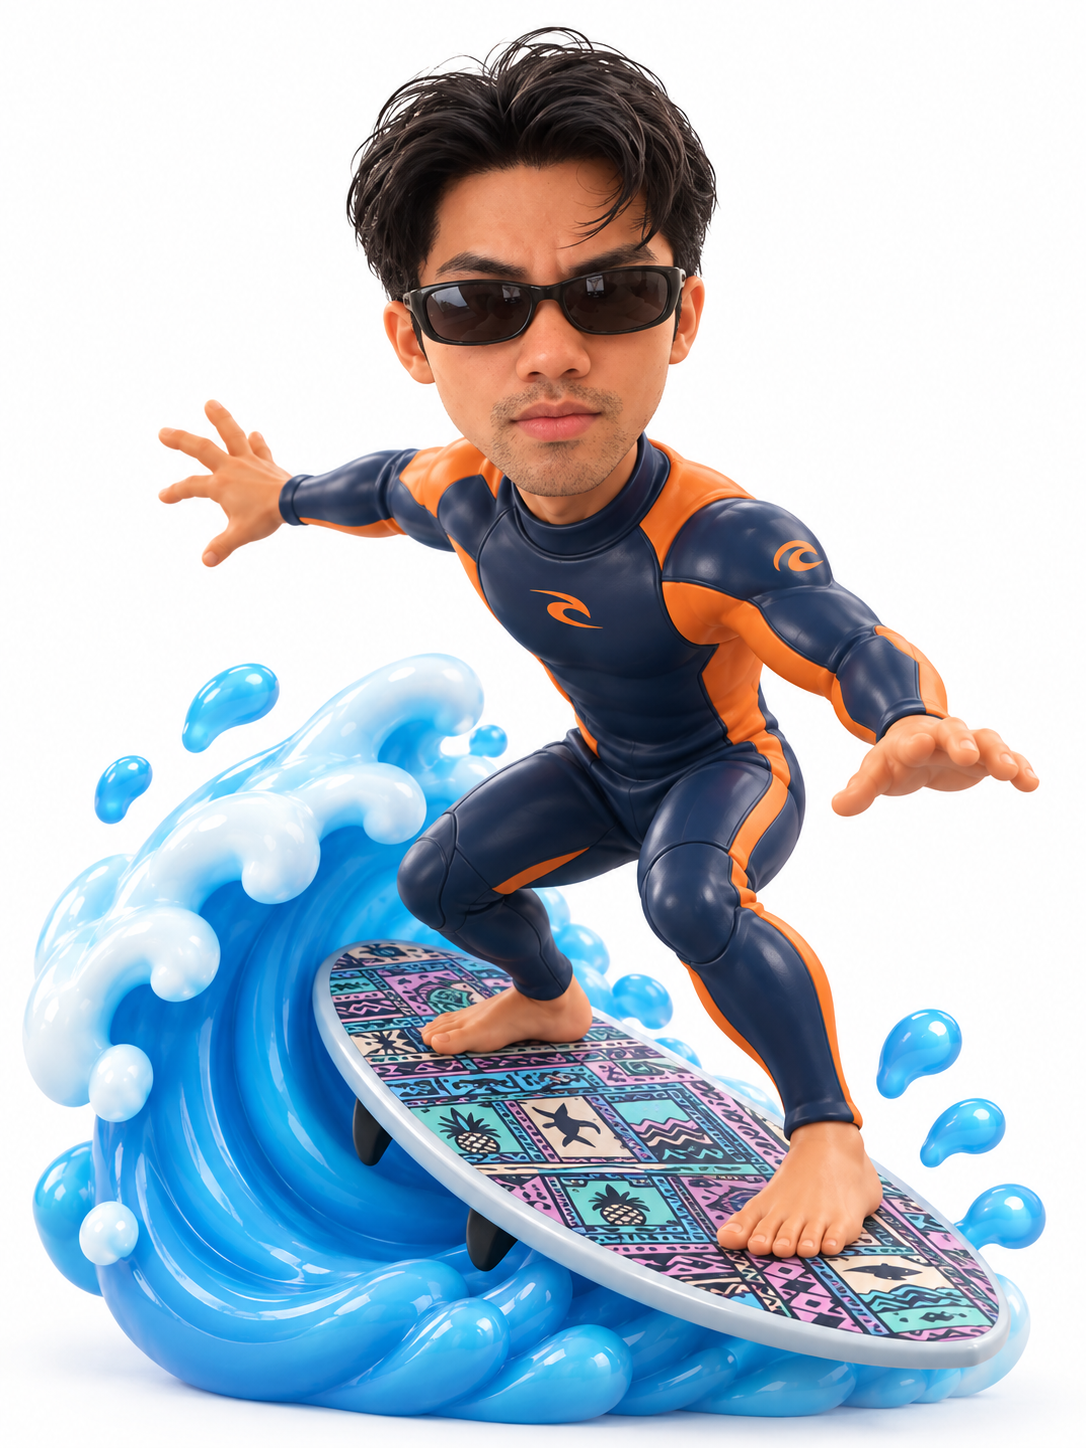
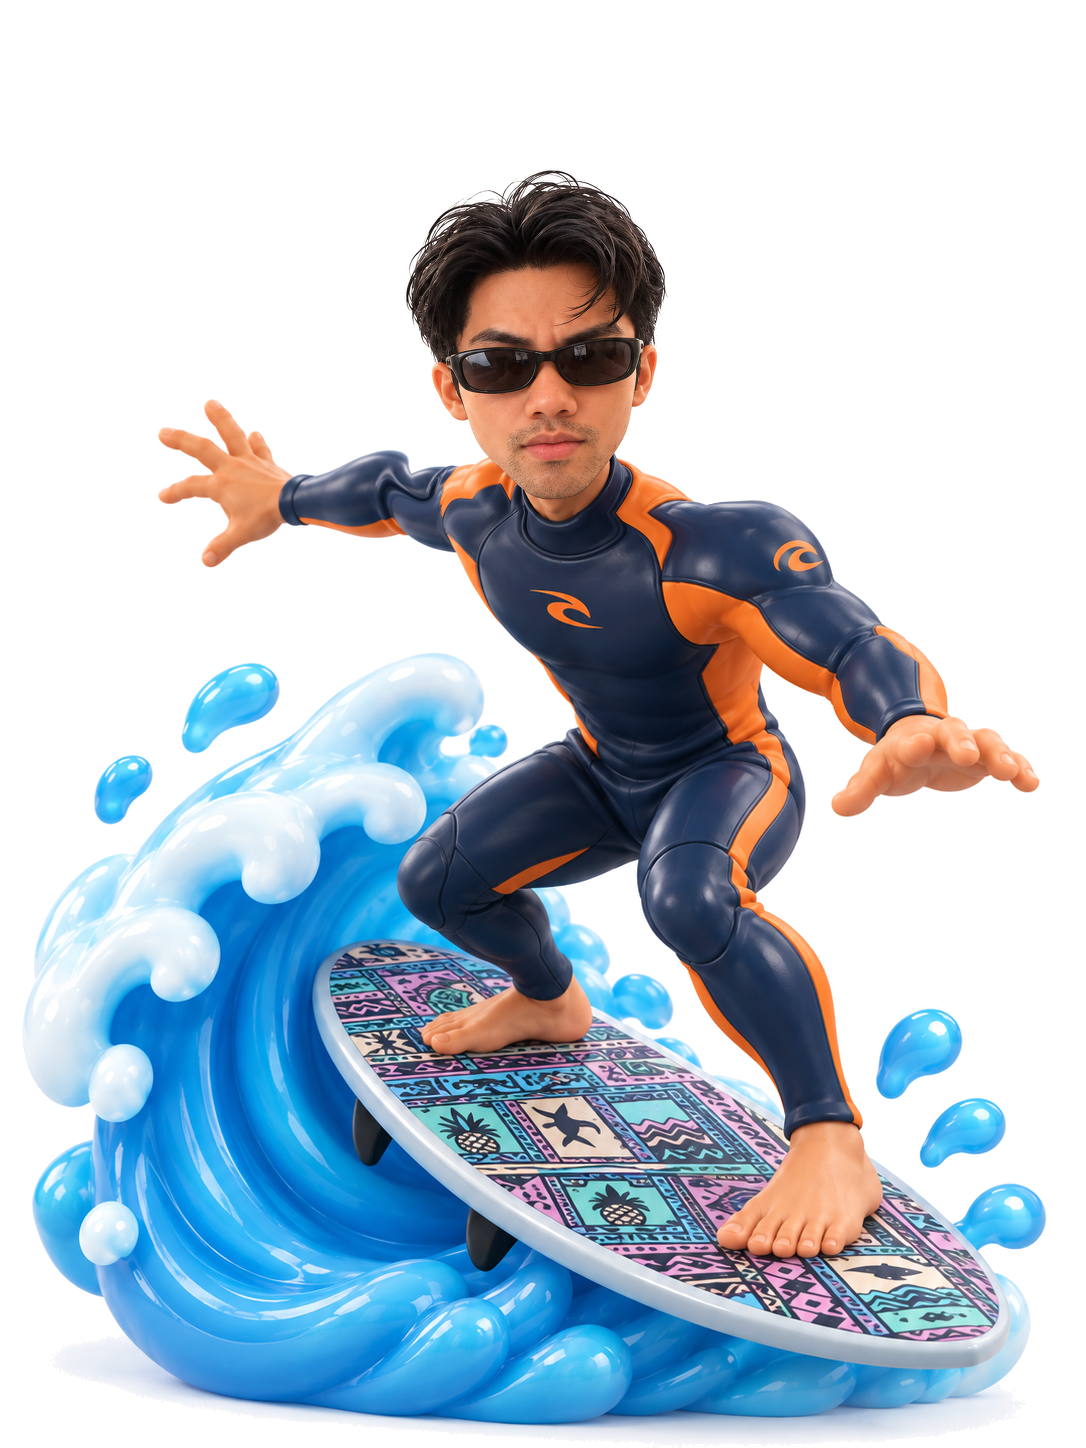
add movie

Changed region(s): [[0.3039, 0.0, 0.6989, 0.3729]]

diff --git a/tools/mini-me/headscale.py b/tools/mini-me/headscale.py
@@ -1,0 +1,95 @@
+"""Rimette in proporzione testa e corpo del mini-me e ripristina lo sfondo trasparente.
+
+Vale per il render del surfista con muta blu/arancio e occhiali (quello introdotto dal
+commit "change photo"), non per il render precedente trattato da edit.py.
+
+La testa viene rimpicciolita con una deformazione morbida ancorata al punto in cui il mento
+appoggia sul collo della muta: dentro la maschera della testa la scala e' piena, fuori e'
+identita', e la fascia di transizione cade sullo sfondo bianco e sulle spalle, dove lo
+stiramento non si vede. Non ci sono buchi da riempire perche' il campo e' continuo.
+
+    python3 tools/mini-me/headscale.py assets/media/mini-me.png assets/media/mini-me.png
+"""
+import cv2, numpy as np, argparse
+from scipy import ndimage
+
+# silhouette della testa misurata sul render (pixel dell'immagine 1086x1448)
+HEAD_POLY=[(534,16),(580,18),(628,40),(668,68),(700,104),(720,148),(730,196),(724,244),(714,292),
+           (702,338),(688,382),(672,420),(660,452),(642,478),(616,500),(586,512),
+           (505,512),(478,500),(456,478),(440,452),(424,420),(408,382),(392,338),(378,292),
+           (366,244),(352,196),(340,148),(360,104),(392,68),(432,40),(480,18)]
+PIVOT=(545.,505.)          # mento sul collo della muta: resta fermo
+FACE_BOX=(0,520,330,745)   # y0,y1,x0,x1 in cui cercare pelle e capelli
+
+def head_mask(img):
+    H,W=img.shape[:2]
+    hsv=cv2.cvtColor(img.astype(np.uint8),cv2.COLOR_BGR2HSV)
+    Hh,S,V=hsv[...,0].astype(int),hsv[...,1].astype(int),hsv[...,2].astype(int)
+    poly=np.zeros((H,W),np.uint8); cv2.fillPoly(poly,[np.array(HEAD_POLY,np.int32)],255)
+    y0,y1,x0,x1=FACE_BOX
+    box=np.zeros((H,W),bool); box[y0:y1,x0:x1]=True
+    cand=(((Hh>=3)&(Hh<=25)&(S>=45)&(V>=95))|(V<90))&box     # pelle, capelli, occhiali
+    n,lab,_,_=cv2.connectedComponentsWithStats(cand.astype(np.uint8))
+    m=ndimage.binary_fill_holes((poly>0)|(lab==lab[300,532]))
+    return cv2.morphologyEx(m.astype(np.uint8),cv2.MORPH_CLOSE,
+                            cv2.getStructuringElement(cv2.MORPH_ELLIPSE,(11,11)))>0
+
+def scale_head(img,s,sigma=10.):
+    H,W=img.shape[:2]; ys,xs=np.mgrid[0:H,0:W].astype(np.float32)
+    w=np.clip(cv2.GaussianBlur(head_mask(img).astype(np.float32),(0,0),sigma)*1.30,0,1)
+    f=1.+(s-1.)*w                                            # 1 sul corpo, s sulla testa
+    px,py=PIVOT
+    mx=(px+(xs-px)/f).astype(np.float32); my=(py+(ys-py)/f).astype(np.float32)
+    return np.clip(cv2.remap(img,mx,my,cv2.INTER_LANCZOS4,borderMode=cv2.BORDER_REPLICATE),0,255)
+
+def cut_white(img,d0=6.,d1=32.):
+    """Sfondo bianco -> alpha, con i bordi smontati dal bianco per non lasciare aloni.
+
+    Lo sfondo del render e' perfettamente piatto (escursione locale <=2), mentre la schiuma
+    dell'onda e il bianco della tavola sono superfici illuminate (escursione ~15). La planarita'
+    distingue quindi le sacche di sfondo chiuse dentro la figura, per esempio i vuoti fra i
+    ciuffi di capelli o quello fra le gambe, che il riempimento dai bordi non raggiunge.
+    """
+    H,W=img.shape[:2]
+    hsv=cv2.cvtColor(img.astype(np.uint8),cv2.COLOR_BGR2HSV)
+    S,V=hsv[...,1].astype(int),hsv[...,2].astype(int)
+    d=np.maximum(S,255-V).astype(np.float32)
+    near=(d<=8).astype(np.uint8)
+    ff=near.copy(); mask=np.zeros((H+2,W+2),np.uint8)
+    for seed in ((0,0),(W-1,0),(0,H-1),(W-1,H-1)):
+        if ff[seed[1],seed[0]]: cv2.floodFill(ff,mask,seed,2)
+    ext=(ff==2)
+    g=cv2.cvtColor(img.astype(np.uint8),cv2.COLOR_BGR2GRAY); k3=np.ones((3,3),np.uint8)
+    flat=(cv2.dilate(g,k3).astype(int)-cv2.erode(g,k3).astype(int))<=2
+    pockets=ndimage.binary_propagation((d<=4)&flat&(~ext),mask=near>0)
+    # la carta e' neutra (saturazione media ~0.1), i bianchi dell'onda tirano al blu (~2.4):
+    # tengo solo le sacche neutre, cosi' la schiuma e il bianco della tavola restano pieni
+    bmr=(img[...,0]-img[...,2]).astype(np.float32)
+    n,lab,st,_=cv2.connectedComponentsWithStats(pockets.astype(np.uint8))
+    keep=np.zeros_like(pockets)
+    for i in range(1,n):
+        if st[i,cv2.CC_STAT_AREA]<20: continue
+        c=lab==i
+        if S[c].mean()<=1.2 and abs(float(bmr[c].mean()))<=1.0: keep|=c
+    ext=ext|keep
+    zone=cv2.dilate(ext.astype(np.uint8),np.ones((9,9),np.uint8))>0
+    # lo sfondo del render ha d<=2, la figura d>=110: la rampa cade tutta sul bordo sfumato
+    a=np.where(zone,np.clip((d-d0)/(d1-d0),0,1),1.).astype(np.float32)
+    a3=a[...,None]
+    col=np.where(a3>0.02,(img-255.*(1.-a3))/np.maximum(a3,0.02),img)
+    return np.dstack([np.clip(col,0,255),a*255.]).astype(np.uint8)
+
+if __name__=="__main__":
+    ap=argparse.ArgumentParser()
+    ap.add_argument("src"); ap.add_argument("out")
+    ap.add_argument("--scale",type=float,default=0.70,help="fattore di riduzione della testa")
+    ap.add_argument("--keep-white",action="store_true",help="non ritagliare lo sfondo bianco")
+    a=ap.parse_args()
+    im=cv2.imread(a.src,cv2.IMREAD_UNCHANGED)
+    if im.shape[2]==4:
+        al=im[...,3:4]/255.; im=im[...,:3]*al+255*(1-al)
+    im=im[...,:3].astype(np.float32)
+    r=scale_head(im,a.scale)
+    r=r.astype(np.uint8) if a.keep_white else cut_white(r)
+    cv2.imwrite(a.out,r,[cv2.IMWRITE_PNG_COMPRESSION,9])
+    print("scritto",a.out,r.shape)

diff --git a/tools/mini-me/README.md b/tools/mini-me/README.md
@@ -1,7 +1,37 @@
-# mini-me: pipeline di modifica
+# mini-me: script di ritocco
 
-Script Python (OpenCV/NumPy/SciPy) che ha prodotto l'attuale `assets/media/mini-me.png`
-a partire dal render originale del surfer:
+Due script, uno per render. Ogni volta che `assets/media/mini-me.png` viene rigenerato da zero
+le coordinate vanno rimisurate, perche' sono in pixel dell'immagine.
+
+## headscale.py - render attuale (surfista con occhiali, muta blu/arancio)
+
+Rimette in proporzione testa e corpo e ripristina lo sfondo trasparente:
+
+- la testa passava per 2,6 teste di figura, un rapporto da bobblehead; ridotta del 30% arriva
+  a 3,2 teste, in linea con la versione precedente del mini-me;
+- la riduzione e' una deformazione morbida ancorata al mento appoggiato sul collo della muta:
+  dentro la maschera della testa la scala e' piena, fuori e' identita', e la fascia di
+  transizione cade sullo sfondo e sulle spalle. Non restano buchi da riempire;
+- lo sfondo bianco torna trasparente. Le sacche chiuse dentro la figura (i vuoti fra i ciuffi
+  di capelli, quello fra le gambe) non si raggiungono dai bordi: si riconoscono perche' la carta
+  e' piatta e neutra, mentre schiuma dell'onda e bianco della tavola sono superfici illuminate
+  con escursione locale ~15 e dominante blu. I bordi sfumati vengono smontati dal bianco, cosi'
+  non resta alone su fondo scuro.
+
+```bash
+python3 -m venv .venv && .venv/bin/pip install numpy opencv-python-headless scipy
+git show cd4730d:assets/media/mini-me.png > /tmp/mini-me-src.png
+.venv/bin/python tools/mini-me/headscale.py /tmp/mini-me-src.png assets/media/mini-me.png --scale 0.70
+```
+
+`--scale` regola quanto rimpicciolire la testa (0,70 = attuale; 0,80 e' piu' conservativo).
+`--keep-white` salta il ritaglio dello sfondo. Le coordinate della testa sono `HEAD_POLY` e
+`PIVOT` in cima allo script.
+
+## edit.py - render precedente (ragazzo in costume, poi muta arancio e glacier)
+
+Ha prodotto la versione del mini-me in uso fino al commit "change photo", a partire dal
+render originale del surfer. Non si applica al render attuale, resta come storia:
 
 - tavola (modello 3D): la sezione trasversale e' un deck bombato chiuso da un rail a quarto di cerchio,
   piu' largo sul lato vicino e ridotto a una lama su quello lontano per la prospettiva. La stampa "tribal"

diff --git a/content/shaping/movies/foe/index.md b/content/shaping/movies/foe/index.md
@@ -1,0 +1,21 @@
+---
+title: Foe
+meta: Garth Davis
+gallery: movie
+rating: 8.5
+catchphrase: Plug back in.
+summary: "All’inizio ti senti così piena di vita ed è… eccitante, ma il tempo rende tutto prevedibile."
+---
+
+> *“All’inizio ti senti così piena di vita ed è… eccitante, ma il tempo rende tutto prevedibile.. è come se lui non mi vedesse più.. come si avesse sostituito con un’altra… ho perso quelle parti che definiscono chi sono o chi potrei essere… e temo che non le recuperò mai… non dovrei dirti certe cose”*
+> 
+
+Il tempo… Il tempo… possibile che il tempo faccia scomparire tutto? faccia scomparire la passione? Ma sopratutto rende normalizzato , rende **per scontato** una persona?
+
+Forse è per questo che alla fine una relazione che sia di amicizia, sia familiare o sia di amore finisca. Forse è per questo che rende la perdita più dolorosa… si ha tutto l’amore del mondo dove però è stato reso per scontato, dove però non si è più lottati per amore.
+
+L’amore alla fine non è soltanto attrazione: l’attrazione è l’epilogo del viaggio. L’amore è saper coltivare giorno dopo giorno il nostro orto, è, come possiamo vedere dal film, sfruttare la pioggia per far crescere le nostre piccole piante. Non a caso le terre che ci vengono mostrate attorno sono ormai spoglie; soltanto un albero è ancora in tatto: l’albero di chi giorno dopo giorno ha dato amore.
+
+Ma qual è il limite per andarsene da questo non amore, da questo nemico? Il limite probabilmente è quando non ci si sente più noi stessi, non si riconosce più la nostra identità: quando le passioni sono state distrutte dall’altro diventando da compagno a nemico. E lì c’è bisogno di un aereo da cui scappare, c’è bisogno del coraggio di andarsene via.
+
+E se invece si è l’altra persona? Ossia la persona che ha distrutto quell’amore. Beh… stare nella solitudine a rimuginare, a soffrire negli sbagli ed elaborarli; solo così si può non fare lo stesso errore nel momento in cui il destino ti darà un’altra possibilità di amare, un altro libro su cui l’epilogo è stato stilato ma dove i capitoli spettano a te scriverli.

diff --git a/content/shaping/movies/_index.md b/content/shaping/movies/_index.md
@@ -19,54 +19,12 @@ galleries:
       # `page:` takes everything from the folder of the same name: title, cover, rating and text
       - page: interstellar
       - page: forrest-gump
-      - title: The Social Network
-        meta: David Fincher
-      - title: La La Land
-        meta: Damien Chazelle
-      - title: Whiplash
-        meta: Damien Chazelle
-      - title: Parasite
-        meta: Bong Joon Ho
-      - title: Nightcrawler
-        meta: Dan Gilroy
-      - title: Prisoners
-        meta: Denis Villeneuve
-      - title: Beau Is Afraid
-        meta: Ari Aster
-      - title: Beautiful Boy
-        meta: Felix van Groeningen
-      - title: Joker
-        meta: Todd Phillips
-      - title: The Truman Show
-        meta: Peter Weir
-      - title: The Grand Budapest Hotel
-        meta: Wes Anderson
-      - title: The Imitation Game
-        meta: Morten Tyldum
-      - title: In the Mood for Love
-        meta: Wong Kar-wai
-      - title: No Country for Old Men
-        meta: Joel Coen, Ethan Coen
+      - page: foe
+
   - title: TV Series
     kind: series
     label: TV Series
     items:
       - page: black-mirror
-      - title: Big Little Lies
-        meta: David E. Kelley
-        rating: 9.8
-      - title: Severance
-        meta: Dan Erickson
-      - title: Mr. Robot
-        meta: Sam Esmail
-      - title: Chernobyl
-        meta: Craig Mazin
-      - title: The Office
-        meta: Greg Daniels
-      - title: Silicon Valley
-        meta: Mike Judge, John Altschuler, Dave Krinsky
-      - title: Sherlock
-        meta: Mark Gatiss, Steven Moffat
-      - title: Death Note
-        meta: Tsugumi Ohba, Takeshi Obata
+
 ---
